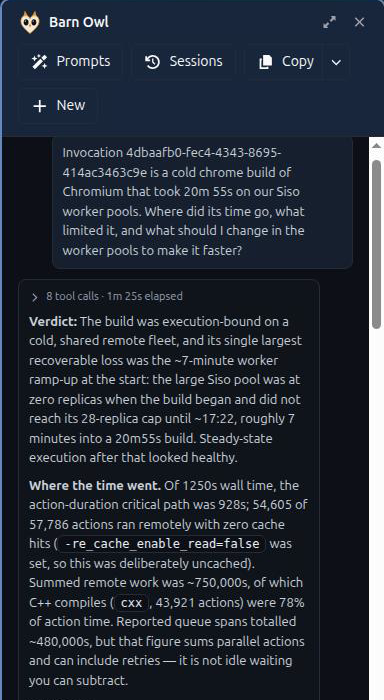
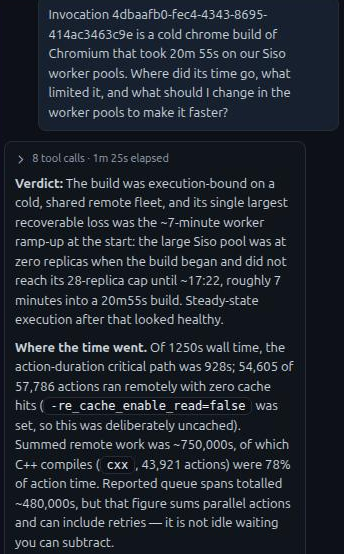
Fix the Chromium example's cluster setup
Enable the File System Access Cache, which the pools' prefetching
needs to start. Drop the 8 GiB frontend read cache: it was a workaround
for our test cluster, not something Chromium needs, and it would shrink
an existing read cache. Explain blob size limits and the
ephemeral-storage request instead. Note that local SSD has to back the
nodes' ephemeral storage, match the standard pools' worker volume, pass
--results_url so siso-bep prints the build link, and use a placeholder
in the .gclient snippet. Tidy the diagram and screenshots.

diff --git a/examples/chromium-siso/reference.md b/examples/chromium-siso/reference.md
@@ -18,9 +18,9 @@ Details behind the [Chromium guide](README.md). For RbeWorker fields in general,
 - **Thresholds** sit below `concurrency`, so a pool adds pods before the ones it has are full. A new node takes minutes to arrive.
 - **Warm capacity.** Large scales to zero between builds to save money. A build that starts from zero waits for nodes: in this example's measurements the large pool took about 7 minutes to reach 28 pods. Raise `minReplicas` before a build when that matters, or keep a floor during working hours with a KEDA cron window (see the commented `cron` block in [`worker-ubuntu24-04.yaml`](../../custom-values/rbeworkers/worker-ubuntu24-04.yaml)).
 
-## The frontend read cache
+## Blob size limits
 
-`frontend.readCache` caches recently read blobs on each frontend replica. A blob can't span blocks, so any output bigger than one block fails the build instead of just missing the cache. Block size is `blocksSizeGi / (oldBlocks + currentBlocks + newBlocks + spareBlocks)`. Chromium's largest outputs:
+Buildbarn's block-based stores can't hold a blob bigger than one block, and an output bigger than that fails the build. Block size is `blocksSizeGi / (oldBlocks + currentBlocks + newBlocks + spareBlocks)`. The chart's default CAS has blocks of about 21 GiB, but check any store you've made smaller, and `frontend.readCache` if you enable it. Chromium's largest outputs:
 
 | Output | Size |
 | --- | --- |
@@ -28,17 +28,17 @@ Details behind the [Chromium guide](README.md). For RbeWorker fields in general,
 | `v8_context_snapshot_generator` | 440 MB |
 | `code_cache_generator` | 373 MB |
 
-8 GiB over 10 blocks gives 819 MiB blocks. Scale `keyLocationMapInMemoryEntries` and the volume's `sizeLimit` with `blocksSizeGi`, as the chart's values comments describe.
+If you give `frontend.readCache` an `emptyDir` with a `sizeLimit`, set `frontend.resources.requests.ephemeral-storage` to match, or the kubelet can evict the frontend (see the chart README's Frontend Read Cache section).
 
 ## Troubleshooting
 
 | Symptom | Likely cause | Check |
 | --- | --- | --- |
 | `DeadlineExceeded` on a compile that waited in the queue | Chromium's 2-minute remote timeout | Add `no-remote-timeout` to `--config` |
-| `Blob is N bytes in size, while this backend is only capable of storing blobs of up to M bytes` | An output larger than one frontend read-cache block | Raise `frontend.readCache.blocksSizeGi` |
+| `Blob is N bytes in size, while this backend is only capable of storing blobs of up to M bytes` | An output larger than one block of a store | See [Blob size limits](#blob-size-limits) |
 | `No workers exist for instance name prefix ...` | The client's platform doesn't match the pools', or the queue isn't predeclared while large is at zero | Compare `backend.star` with `platformProperties` and `predeclaredPlatformQueues` |
 | Pods stay `Pending` | The node pool's maximum or a cloud quota | `kubectl -n kube-system get cm cluster-autoscaler-status -o yaml` names the limit, for example `QUOTA_EXCEEDED` |
-| The build doesn't appear in Hermetiq | No `siso-bep`, or a wrong `--bes_backend` / `--project` | `siso-bep` prints the invocation ID when it starts |
+| The build doesn't appear in Hermetiq | No `siso-bep`, or a wrong `--bes_backend` / `--project` | With `--results_url`, `siso-bep` prints a link to the build when it starts |
 | Remote actions are missing from a build in Hermetiq | `-reapi_instance` differs from `--project`, or `completedActionLoggerAddress` is unset | Use the project ID for both |
 | Workers mostly idle during a slow build | Work is running on your workstation | Check `googlechrome` and `default-remote` are in `--config`; Siso's `out/rbe/siso_metrics.json` shows which steps ran locally |
 

diff --git a/examples/chromium-siso/README.md b/examples/chromium-siso/README.md
@@ -31,7 +31,7 @@ Field-by-field pool details, autoscaling and troubleshooting are in [reference.m
 | --- | --- |
 | Siso | Chromium's build tool. Decides which steps run remotely and sends them to Buildbarn. |
 | [`siso-bep`](../../tools/siso-bep/) | Runs Siso and reports the build to Hermetiq as Build Event Protocol events, the way Bazel does on its own. |
-| Buildbarn frontend | Checks credentials and caches recently read blobs. Its cache's block size limits the largest output a build can produce. |
+| Buildbarn frontend | Checks credentials and passes blobs to storage and actions to the scheduler. |
 | Buildbarn scheduler | Queues actions by platform and learns which ones need the large pool. |
 | Two worker pools | Size class 1 (24 actions per pod) and size class 4 (9 actions per pod), one pod per 16-vCPU node. |
 | Hermetiq | Build history, targets, remote actions, the timeline and critical path for every build, and Barn Owl. |
@@ -62,9 +62,11 @@ You need a Linux workstation with [depot_tools](https://chromium.googlesource.co
 
 1. **Buildbarn values.** Merge [`buildbarn-values.yaml`](buildbarn-values.yaml) into your Buildbarn values and upgrade the release:
    - size-class analysis, which needs the ISCC store (see [ISCC size classes](../../docs/iscc-size-classes.md))
+   - the File System Access Cache, which the pools' input prefetching needs
    - the predeclared queue for the Chromium platform
-   - a frontend read cache whose 819 MiB blocks hold Chromium's largest output
-2. **Nodes.** The pools expect 16-vCPU nodes with local SSD, one worker pod per node: a 13-CPU runner and a 2-CPU worker. Set the node pool's maximum, and your cloud's quota (including local SSD quota), to at least the pools' combined maximum of 40.
+
+   Chromium's `chrome` binary is 715 MB, and Buildbarn can't store a blob bigger than one block of a store. Check your blocks are bigger than that; see [reference.md](reference.md#blob-size-limits).
+2. **Nodes.** The pools expect 16-vCPU nodes with local SSD, one worker pod per node: a 13-CPU runner and a 2-CPU worker. The workers keep their cache and build files in `emptyDir` volumes, so the local SSD must back the node's ephemeral storage (on GKE, `--ephemeral-storage-local-ssd`). Set the node pool's maximum, and your cloud's quota (including local SSD quota), to at least the pools' combined maximum of 40.
 3. **Pools.** Add [`rbeworkers/`](rbeworkers/) as a component to the overlay you apply your RbeWorkers with, then apply it:
 
    ```bash
@@ -78,7 +80,8 @@ You need a Linux workstation with [depot_tools](https://chromium.googlesource.co
 The everyday command is [`client/build.sh`](client/build.sh). It sends every step to Buildbarn, including links, reads from the remote cache, and downloads only the outputs you need locally:
 
 ```bash
-siso-bep --bes_backend=grpcs://bep.<your-domain> --project=$INSTANCE_NAME -- \
+siso-bep --bes_backend=grpcs://bep.<your-domain> --project=$INSTANCE_NAME \
+  --results_url=https://dashboard.<your-domain>/build/ -- \
   autoninja -C out/rbe \
     -reapi_address=bb.<your-domain>:443 -reapi_instance=$INSTANCE_NAME \
     --strict_remote --remote_jobs=800 \
